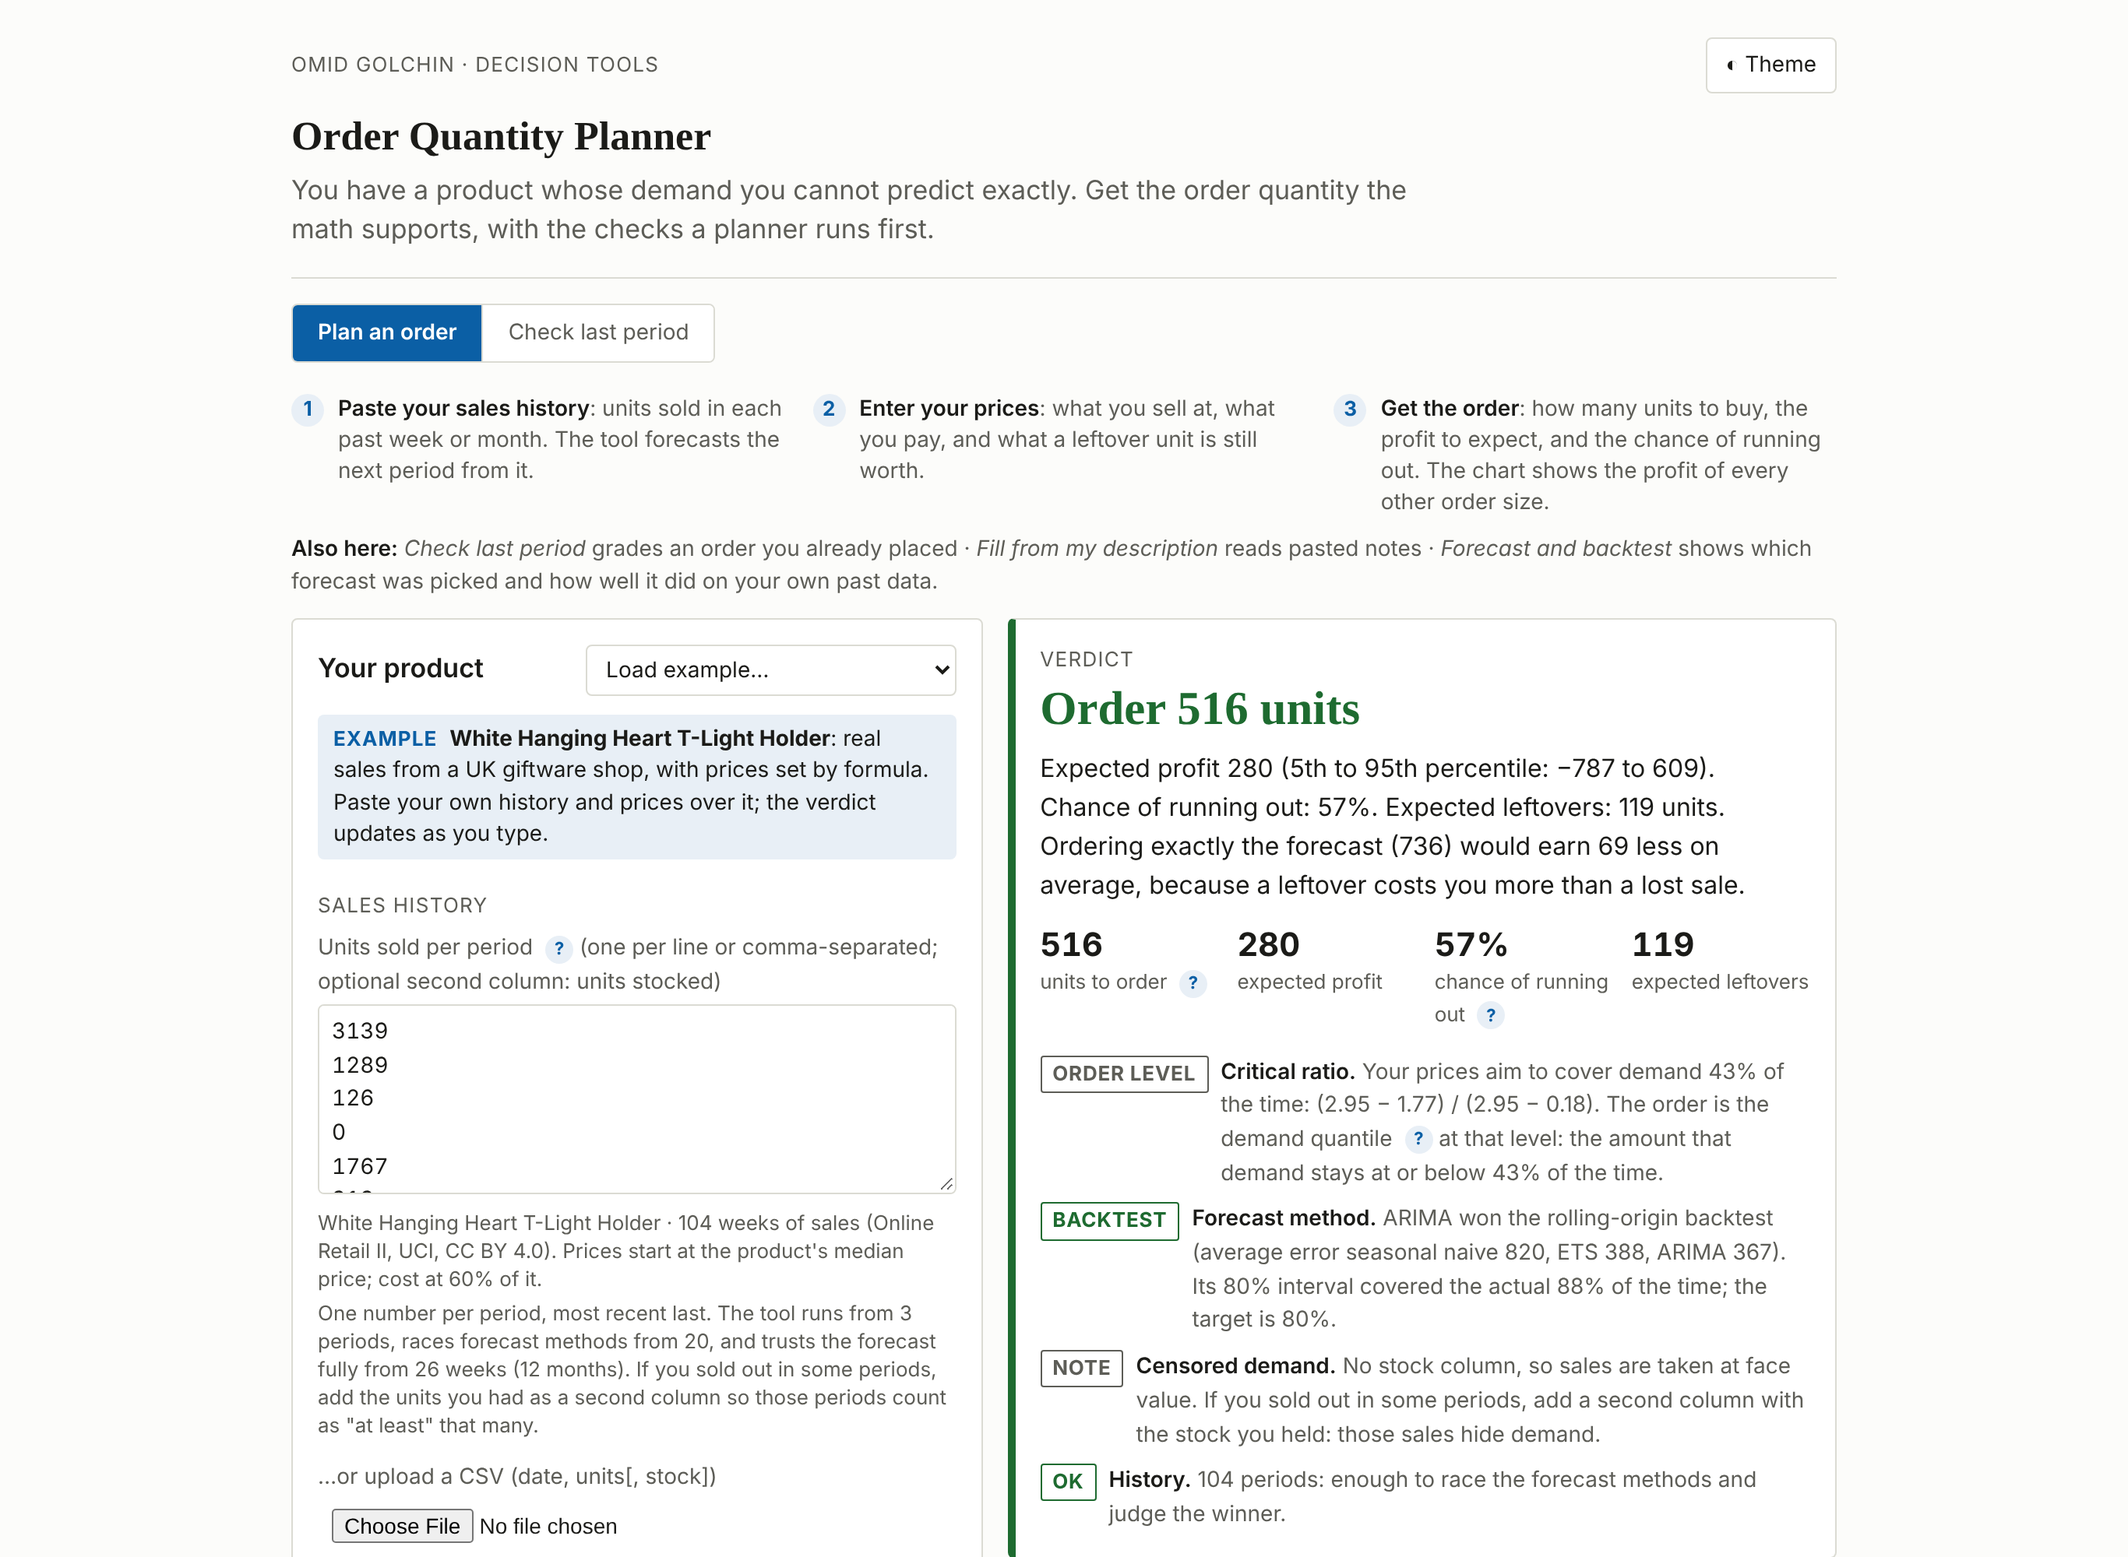
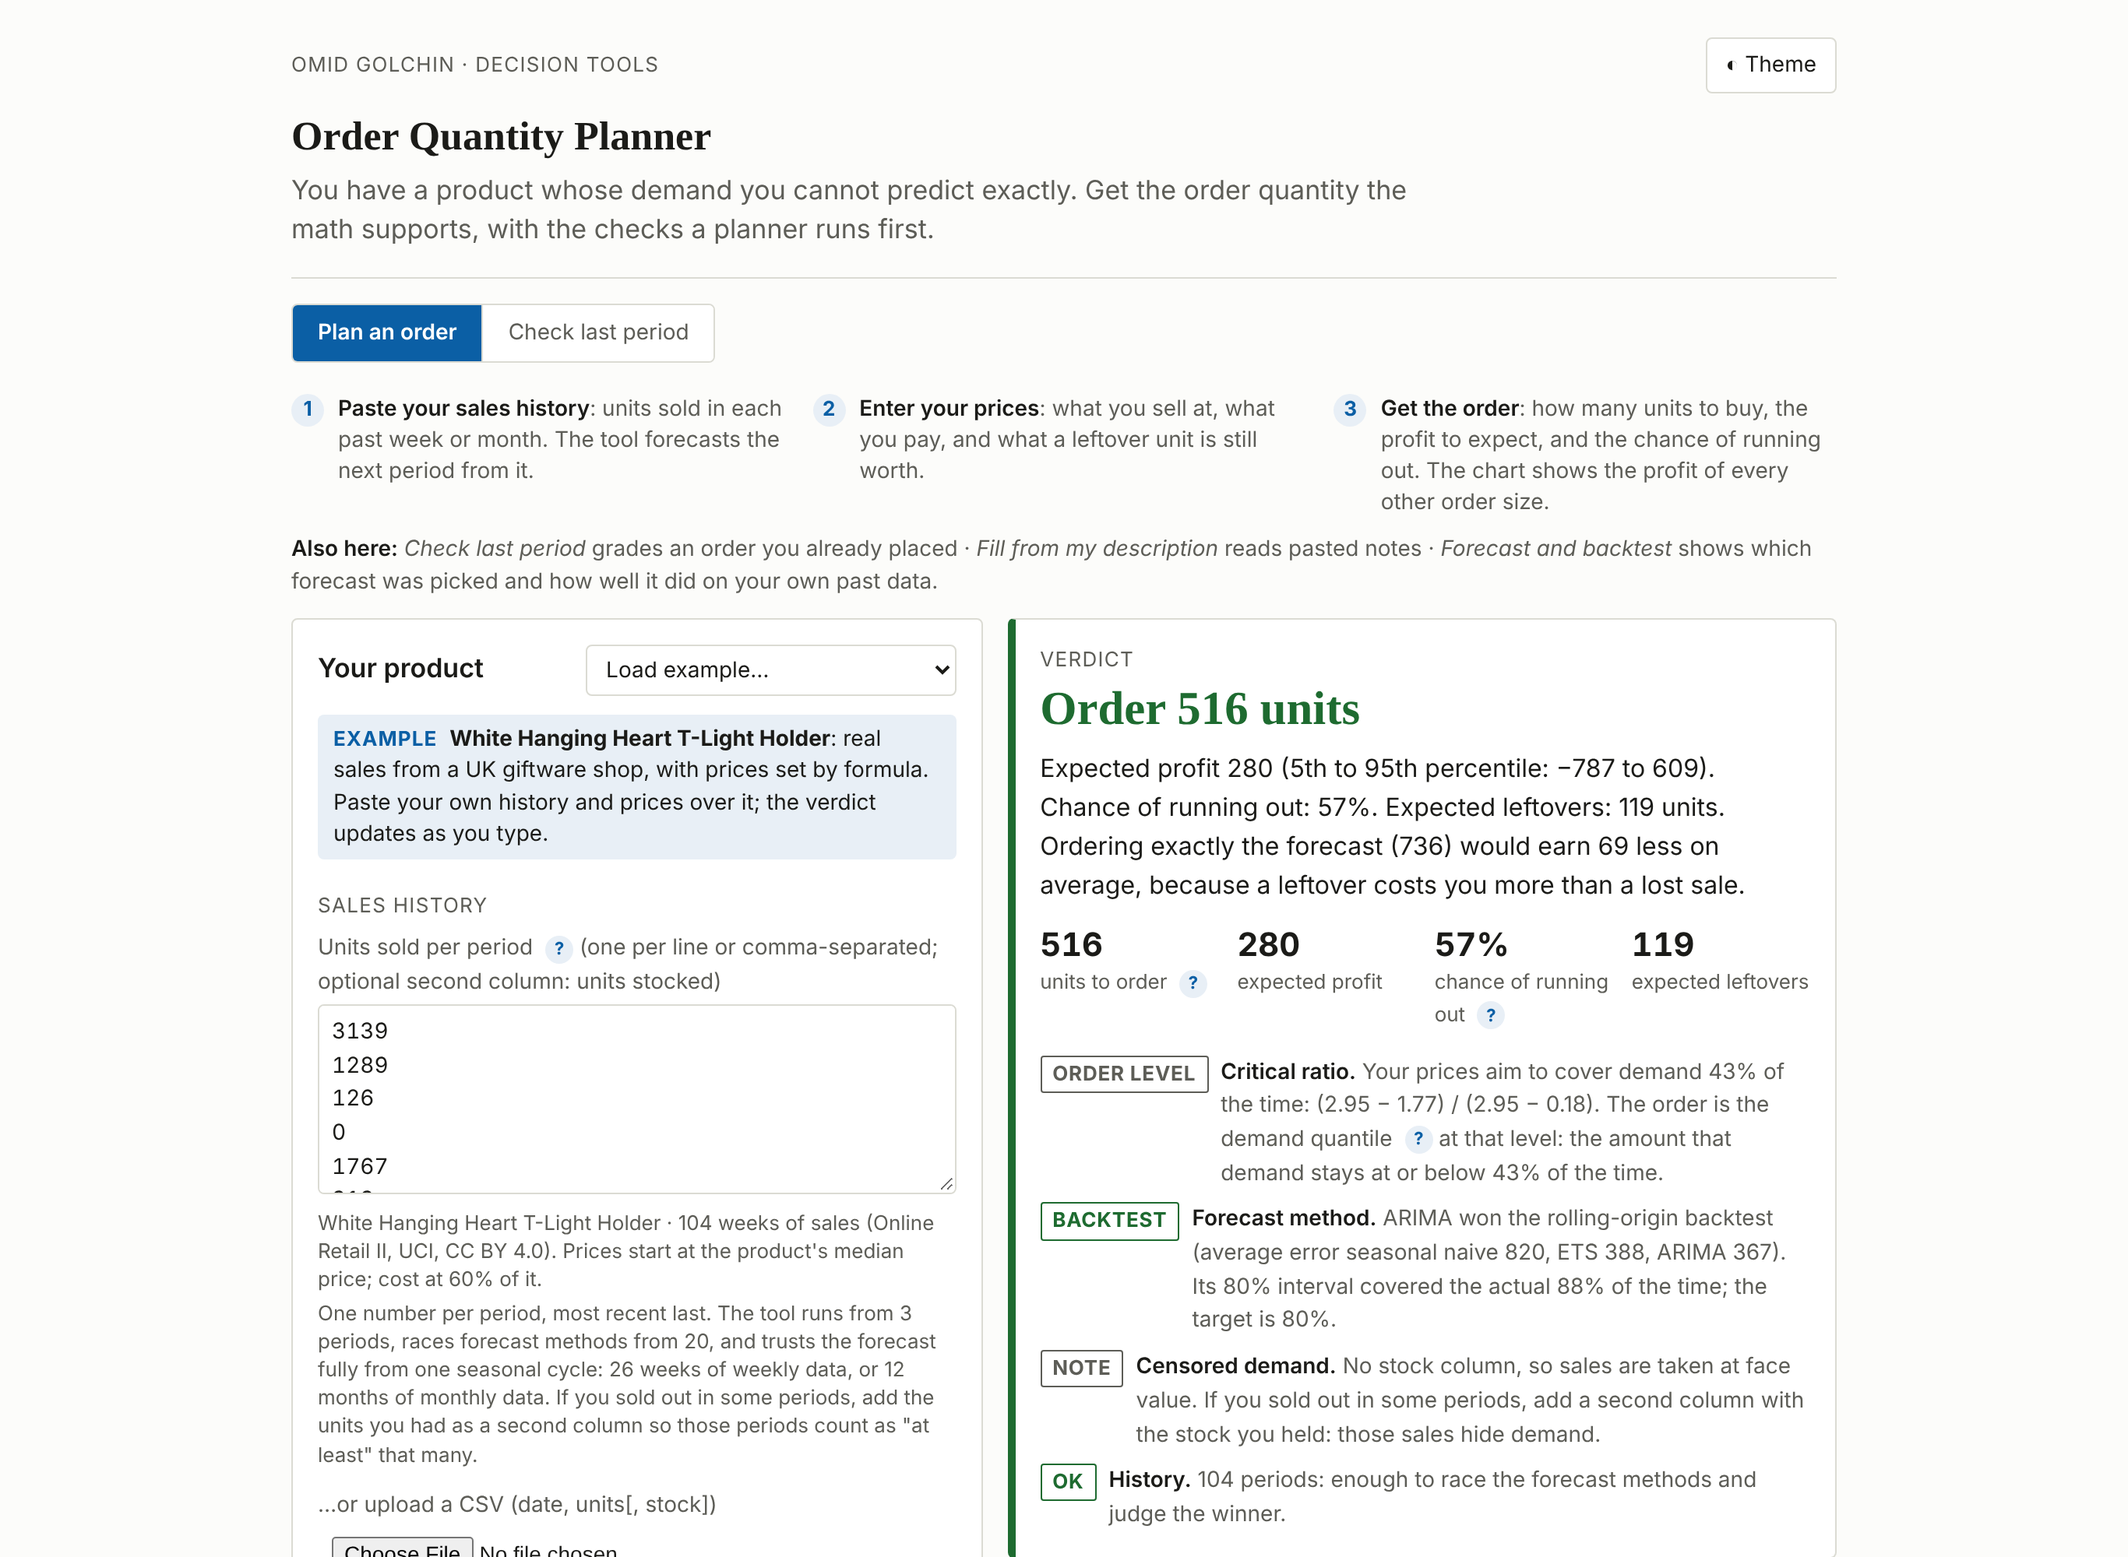
Decode "quantile" everywhere, state the history rule per period type
- The do-not-stock verdict explains the quantile in plain words; the glossary entry no longer hardcodes a ratio.
- Page and README state the full-trust threshold as 26 weeks of weekly data or 12 months of monthly data (they read "26 weeks (12 months)").
- README: the checks table uses the badges and names the page shows, and decodes the quantile.
- Input errors say what to enter.
- Kit: Tool.exampleWatch shows the example banner and hides it at the first real edit; the phone skip link is a 44px tap target; the shared tool list links the renamed llm-eval-error-bars.
- Hero GIF and screenshots regenerated from the updated page.

Changed region(s): [[0.1556, 0.868, 0.4356, 1.0]]

diff --git a/docs/app.js b/docs/app.js
@@ -103,10 +103,10 @@
     var ok = true;
     function need(id, cond, msg) { fieldError(id, cond ? "" : msg); if (!cond) ok = false; }
     need("history", !parsed.error && parsed.values.length >= 3, parsed.error || "Paste at least 3 periods of sales.");
-    need("price", v.price !== null && v.price > 0, "Above 0.");
-    need("cost", v.cost !== null && v.cost >= 0, "0 or more.");
-    need("salvage", v.salvage !== null && v.salvage >= 0, "0 or more.");
-    need("goodwill", v.goodwill >= 0, "0 or more.");
+    need("price", v.price !== null && v.price > 0, "Enter the selling price for one unit, above 0.");
+    need("cost", v.cost !== null && v.cost >= 0, "Enter what one unit costs you, 0 or more.");
+    need("salvage", v.salvage !== null && v.salvage >= 0, "Enter what an unsold unit brings back, 0 or more. Use 0 if it is thrown away.");
+    need("goodwill", v.goodwill >= 0, "Enter the extra cost of turning a customer away, 0 or more. Use 0 if there is none.");
     return ok ? v : null;
   }
 
@@ -144,8 +144,8 @@
     }
     var zeroNote = plan.order === 0
       ? "At these prices the math says do not stock: " + (dist.intermittent
-          ? F.pct(dist.zeroShare, 0) + " of periods sold nothing, and your prices only ask for the " + F.pct(plan.ratio, 0) + " quantile of demand, which is zero here. "
-          : "your prices only ask for the " + F.pct(plan.ratio, 0) + " quantile of demand, which is zero here. ")
+          ? F.pct(dist.zeroShare, 0) + " of periods sold nothing, and your prices only ask for the " + F.pct(plan.ratio, 0) + " quantile of demand (the amount that demand stays at or below in " + F.pct(plan.ratio, 0) + " of periods), which is zero here. "
+          : "your prices only ask for the " + F.pct(plan.ratio, 0) + " quantile of demand (the amount that demand stays at or below in " + F.pct(plan.ratio, 0) + " of periods), which is zero here. ")
         + "A higher price, a lower cost, or a real cost for a lost sale would change that. "
       : "";
     if (plan.state === "bad") {
@@ -295,8 +295,8 @@
     var ordered = num("cOrdered"), sold = num("cSold"), ranOut = $("cRanOut").value === "yes";
     var ok = true;
     function need(id, cond, msg) { fieldError(id, cond ? "" : msg); if (!cond) ok = false; }
-    need("cOrdered", ordered !== null && ordered >= 0 && Number.isInteger(ordered), "Whole number, 0 or more.");
-    need("cSold", sold !== null && sold >= 0 && Number.isInteger(sold) && (ordered === null || sold <= ordered), "Between 0 and what you ordered.");
+    need("cOrdered", ordered !== null && ordered >= 0 && Number.isInteger(ordered), "Enter the units you ordered, as a whole number, 0 or more.");
+    need("cSold", sold !== null && sold >= 0 && Number.isInteger(sold) && (ordered === null || sold <= ordered), "Enter the units you sold, as a whole number no larger than what you ordered.");
     writeUrl();
     if (!ok || !cur) {
       $("cTitle").textContent = !cur ? "Plan an order first" : "Check the highlighted inputs";
@@ -494,7 +494,7 @@
       cr: { t: "How the order size is chosen", d: "This is the newsvendor problem. Order until one more unit is as likely to lose money as to make it. That happens at the <i>critical ratio</i>: underage cost ÷ (underage + overage), where underage = price − cost (+ lost-sale cost) and overage = cost − salvage. The order is the demand level with that probability of not being exceeded." },
       stockout: { t: "Chance of running out", d: "The probability that demand next period exceeds the order. Ordering for zero stockouts is almost never profitable; the right level depends on your margins." },
       gap: { t: "Gap to the plan", d: "How much more profit the plan's order would have earned on average than your order, given what was known before the period. It grades the decision, not the luck of one period." },
-      quantile: { t: "Quantile", d: "The 43% quantile of demand is the amount that demand stays at or below 43% of the time. Ordering the critical-ratio quantile means you run out in the remaining share of periods, which is exactly the balance your prices make worthwhile." },
+      quantile: { t: "Quantile", d: "A level of demand named by how often demand stays at or below it. For example, the 60% quantile is the amount that demand stays at or below in 60% of periods. The tool orders the quantile at your critical ratio (shown in the ORDER LEVEL check), so you run out in the remaining share of periods: exactly the balance your prices make worthwhile." },
       censored: { t: "Sold-out periods", d: "When you sell out, true demand was at least what you sold, maybe more. Treating that period as exact demand underestimates demand and leads to ordering too little next time. The tool treats sold-out periods as 'at least'." },
       curve: { t: "Profit by order size", d: "For every order size, the average profit over thousands of simulated demand draws from the forecast. The peak is the best order. A flat top means you have room; a steep side shows which mistake (too few or too many) costs more." }
     });

diff --git a/docs/tool-common.js b/docs/tool-common.js
@@ -10,6 +10,7 @@
  *   Tool.siblings(currentRepo)     the "More tools" footer line, from one shared list
  *   Tool.tabs(tablist)             arrow-key support for a mode switch
  *   Tool.exampleBanner(form, text) marks prefilled example content where it sits
+ *   Tool.exampleWatch(form, text)  same, and hides it at the visitor's first edit
  *
  * No dependencies. Works from file:// and on GitHub Pages.
  */
@@ -497,7 +498,7 @@
     ["bayesian-ab-lab", "A/B Test Decision Tool"],
     ["queue-simulator", "Call Center Staffing Planner"],
     ["experiment-hazard-simulator", "Agent Eval Planner"],
-    ["llm-eval-error-bar", "Error Bars for LLM Evals"],
+    ["llm-eval-error-bars", "Error Bars for LLM Evals"],
     ["ordering-policy-tester", "Ordering Policy Tester"],
     ["order-quantity-planner", "Order Quantity Planner"],
     ["production-line-simulator", "Production Line Bottleneck Finder"],
@@ -549,6 +550,23 @@
     b.hidden = false;
     b.innerHTML = '<span class="ex-tag">Example</span> ' + text;
   }
+  // Show the banner now and hide it at the visitor's first real edit of the form.
+  // Programmatic fills (examples, URL state) do not fire trusted events, and the
+  // example menu itself (.example) is ignored, so loading another example keeps it.
+  function exampleWatch(form, text) {
+    if (!form) return;
+    exampleBanner(form, text);
+    if (form._exWatch) return;
+    form._exWatch = true;
+    var off = function (e) {
+      if (!e.isTrusted) return;
+      var t = e.target;
+      if (t && t.classList && (t.classList.contains("example") || t.closest(".ex-keep"))) return;
+      exampleBanner(form, null);
+    };
+    form.addEventListener("input", off);
+    form.addEventListener("change", off);
+  }
   // On narrow screens the inputs come first; give a way straight to the result.
   function jumpLinks() {
     document.querySelectorAll(".work").forEach(function (w, i) {
@@ -571,7 +589,7 @@
     });
   }
 
-  var api = { explain: explain, alignFields: alignFields, exampleBanner: exampleBanner, jumpLinks: jumpLinks, closeTip: closeTip, siblings: siblings, tabs: tabs, TOOLS: TOOLS, readParams: readParams, writeParams: writeParams, copy: copy, fmt: fmt, lineChart: lineChart, niceTicks: niceTicks, assist: assist, _buildPrompt: buildPrompt, _parseReply: parseReply, _quoteFound: quoteFound, _coerce: coerce };
+  var api = { explain: explain, alignFields: alignFields, exampleBanner: exampleBanner, exampleWatch: exampleWatch, jumpLinks: jumpLinks, closeTip: closeTip, siblings: siblings, tabs: tabs, TOOLS: TOOLS, readParams: readParams, writeParams: writeParams, copy: copy, fmt: fmt, lineChart: lineChart, niceTicks: niceTicks, assist: assist, _buildPrompt: buildPrompt, _parseReply: parseReply, _quoteFound: quoteFound, _coerce: coerce };
   if (typeof module !== "undefined" && module.exports) module.exports = api;
   if (typeof window !== "undefined") window.Tool = api;
 })();

diff --git a/docs/index.html b/docs/index.html
@@ -51,7 +51,7 @@
           <div class="group-label">Sales history</div>
           <div class="field full"><label for="history">Units sold per period <button type="button" data-tip="demand"></button> <span class="muted">(one per line or comma-separated; optional second column: units stocked)</span></label>
             <textarea id="history" rows="5" spellcheck="false"></textarea>
-            <div class="hint" id="historyHint"></div><div class="hint">One number per period, most recent last. The tool runs from 3 periods, races forecast methods from 20, and trusts the forecast fully from 26 weeks (12 months). If you sold out in some periods, add the units you had as a second column so those periods count as "at least" that many.</div></div>
+            <div class="hint" id="historyHint"></div><div class="hint">One number per period, most recent last. The tool runs from 3 periods, races forecast methods from 20, and trusts the forecast fully from one seasonal cycle: 26 weeks of weekly data, or 12 months of monthly data. If you sold out in some periods, add the units you had as a second column so those periods count as "at least" that many.</div></div>
           <div class="field full"><label for="csvFile">…or upload a CSV <span class="muted">(date, units[, stock])</span></label>
             <input id="csvFile" type="file" accept=".csv,text/csv"><div class="hint">A spreadsheet export works: a date column, then units sold, then (optional) units stocked.</div></div>
           <div class="field"><label for="period">Period length</label>

diff --git a/docs/tool.css b/docs/tool.css
@@ -141,4 +141,5 @@ select.example { font-size: var(--fs-small); }
 .ex-banner { margin: 0 0 var(--sp-3); padding: 6px 10px; border-radius: var(--radius); background: var(--accent-soft); color: var(--fg); font-size: var(--fs-small); line-height: 1.45; }
 .ex-banner .ex-tag { display: inline-block; font-size: var(--fs-caption); font-weight: 700; letter-spacing: .04em; text-transform: uppercase; color: var(--accent); margin-right: 4px; }
 .jump { display: none; }
-@media (max-width: 820px) { .jump { display: inline-block; margin: 0 0 var(--sp-3); font-size: var(--fs-small); font-weight: 600; } }
+@media (max-width: 820px) { .jump { display: inline-flex; align-items: center; min-height: 44px; margin: 0 0 var(--sp-2); font-size: var(--fs-small); font-weight: 600; } }
+.ctl-grid .ctl-hint { display: block; margin-top: 4px; font-weight: 400; }

diff --git a/README.md b/README.md
@@ -21,7 +21,9 @@ The math behind it is the newsvendor model. Its critical ratio,
 > (price − cost + goodwill) / (price − salvage + goodwill),
 
 is the share of periods your order should cover: you order the amount
-of demand that is not exceeded that often (that demand quantile). This
+of demand that is not exceeded that often (that demand quantile: if
+the ratio is 60%, the amount that demand stays at or below in 60% of
+periods). This
 planner builds the demand distribution from the product's own history:
 a forecast method is chosen by rolling-origin backtest (seasonal naive
 vs ETS vs ARIMA, lowest one-step error wins), its point forecast is
@@ -31,8 +33,9 @@ profit, the stock-out chance and the leftovers all describe the same
 distribution.
 
 History: the planner runs from 3 periods, races forecast methods from
-20, and trusts the forecast fully from 26 weeks (12 months) with at
-least 12 periods of sales.
+20, and trusts the forecast fully from one seasonal cycle (26 weeks of
+weekly data, or 12 months of monthly data) with at least 12 periods of
+sales.
 
 Two modes:
 
@@ -58,11 +61,11 @@ Every verdict shows the checks that produced it:
 
 | Check | What it tests | When it is not OK |
 |---|---|---|
-| RATIO | The critical ratio for your prices, and the demand quantile it selects | Always INFO: it explains the order, it does not grade it |
-| BACKTEST | The winning forecast method's 80% interval coverage on this product's own history | WARN when coverage is far from 0.80: the spread is shakier than it claims |
-| SPARSE | Intermittent demand (30% or more empty periods) switches the distribution to a bootstrap of observed periods | INFO: the switch is disclosed, with the share of empty periods |
-| SOLD OUT | Whether sales hit the stock level often enough that the records understate demand | WARN when censored: the tail was widened; NOTE when no stock data was given |
-| HISTORY | Whether there is enough history to run the race at all | WARN below one seasonal cycle (26 weeks / 12 months) or with fewer than 12 non-empty periods |
+| ORDER LEVEL (Critical ratio) | The critical ratio for your prices, and the amount of demand it points to: the level that demand stays at or below in that share of periods | Always INFO: it explains the order, it does not grade it |
+| BACKTEST (Forecast method) | The winning forecast method's 80% interval coverage on this product's own history | WARN when coverage is far from 0.80: the spread is shakier than it claims |
+| SPARSE (Intermittent demand) | Intermittent demand (30% or more empty periods) switches the distribution to a bootstrap of observed periods | INFO: the switch is disclosed, with the share of empty periods |
+| SOLD OUT (Censored demand) | Whether sales hit the stock level often enough that the records understate demand | WARN when censored: the tail was widened; NOTE when no stock data was given |
+| THIN (History) | Whether there is enough history to run the race at all | WARN below one seasonal cycle (26 weeks of weekly data, 12 months of monthly data) or with fewer than 12 non-empty periods |
 
 ## Design decisions
 
